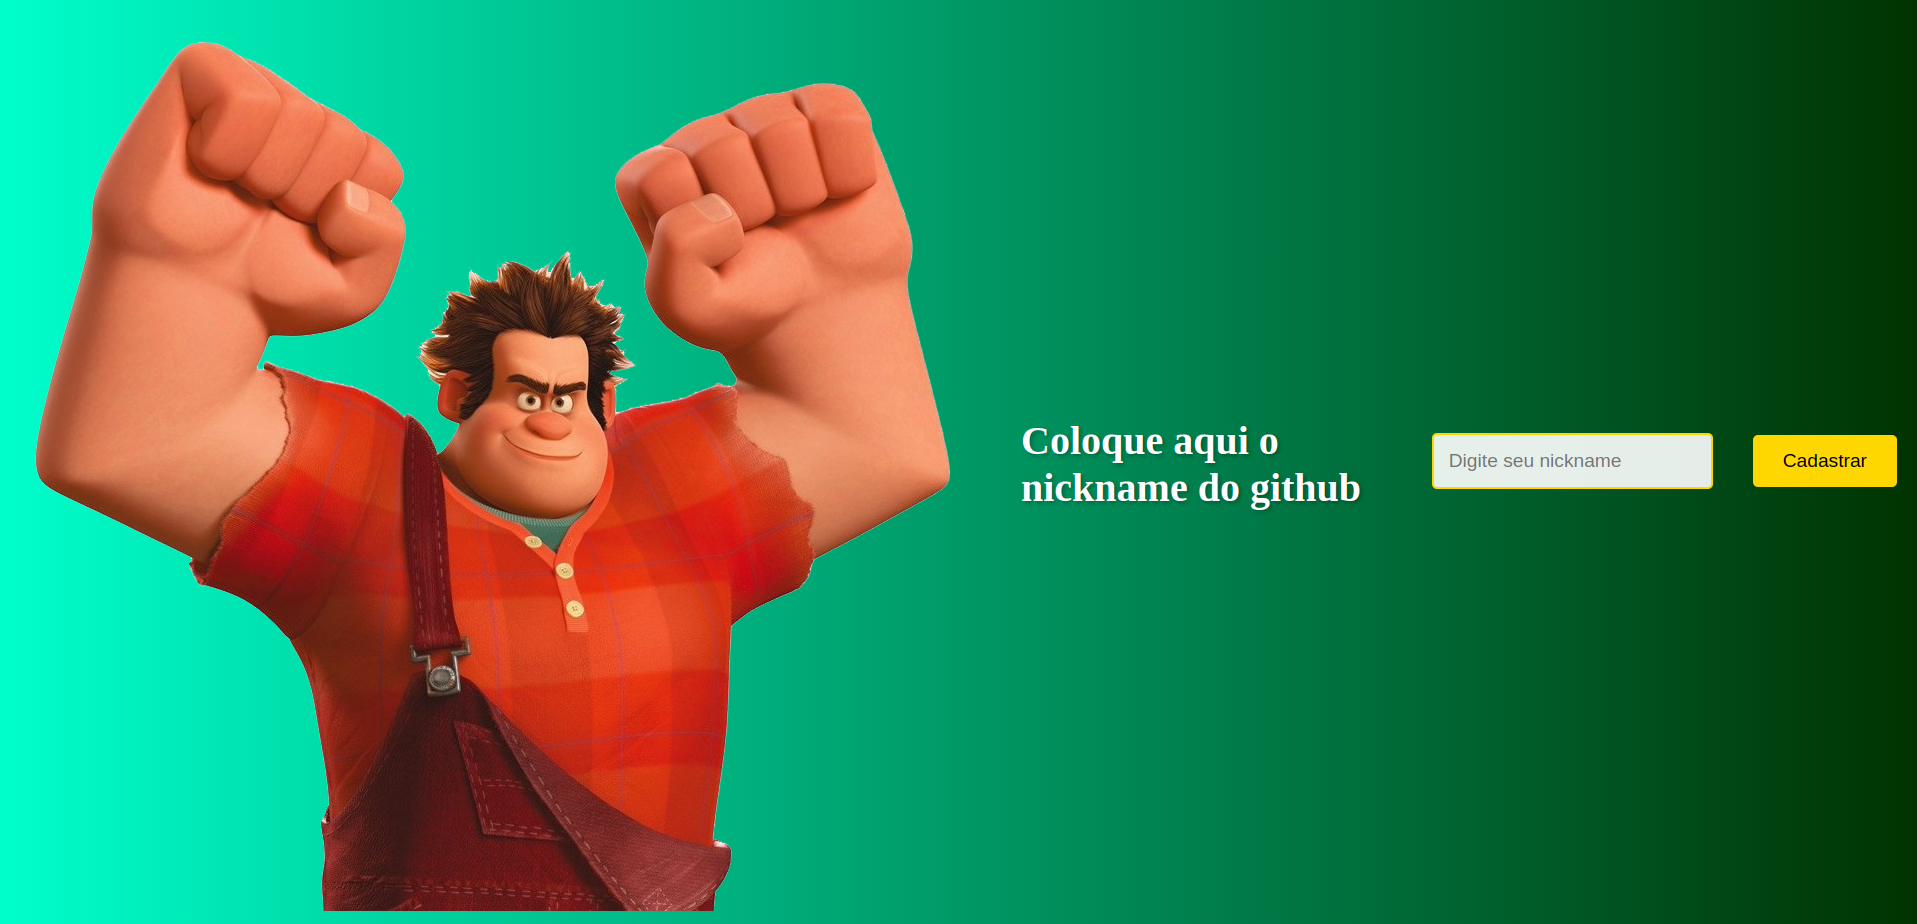
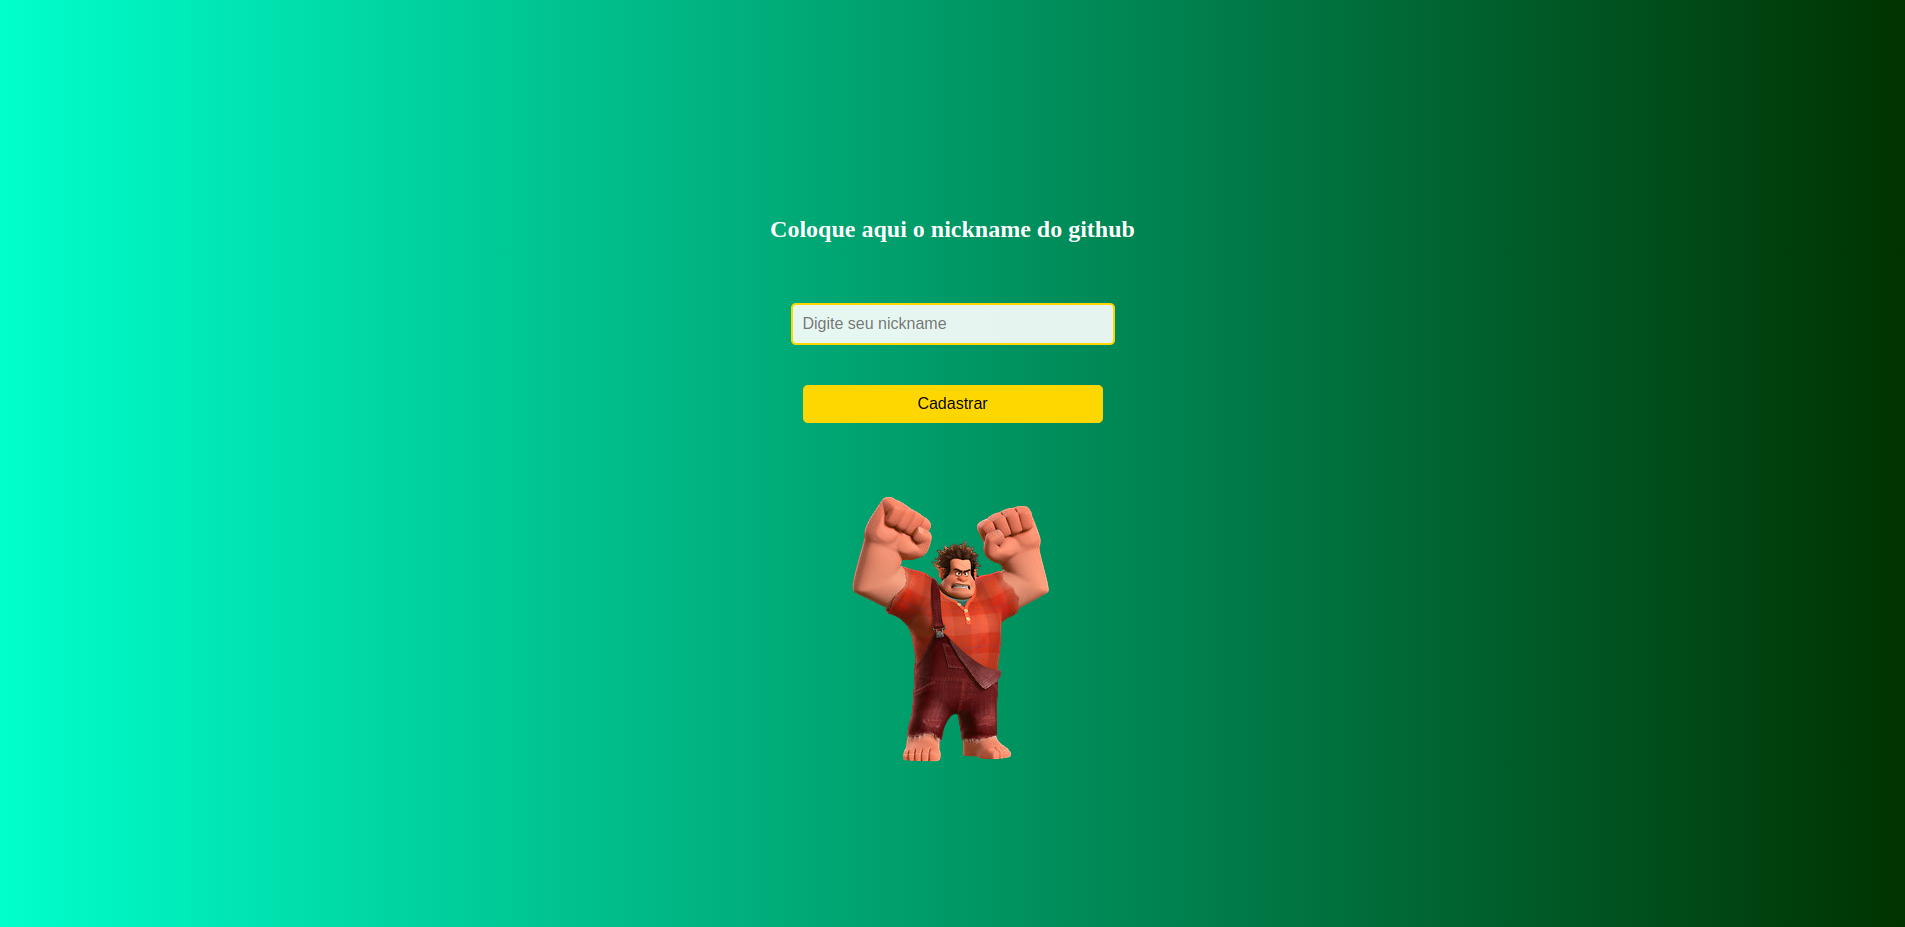
mexendo no codigo do ranking e no stylo e imagens

diff --git a/src/assets/js/engine.js b/src/assets/js/engine.js
@@ -43,7 +43,6 @@ document.addEventListener("DOMContentLoaded", () => {
 
     // Adiciona evento de clique para o botão de cadastro
     document.getElementById('cadastro-btn').addEventListener('click', function() {
-        // Lógica de validação ou processamento do cadastro pode ser adicionada aqui
         const nicknameInput = document.getElementById('nickname-input').value; // Supondo que você tenha um input para nickname
         if (nicknameInput) {
             localStorage.setItem("nickname", nicknameInput);
@@ -71,6 +70,12 @@ function playSound(audioName) {
     audio.play();
 }
 
+// Função para atualizar a pontuação e vidas no DOM
+function updateScoreAndLives() {
+    state.view.score.textContent = state.values.result; // Atualiza a pontuação
+    state.view.lives.textContent = `${state.values.currentLives}x`; // Atualiza as vidas
+}
+
 // Função para iniciar o jogo
 function init() {
     console.log("Iniciando o jogo..."); // Log para verificar a inicialização
@@ -80,9 +85,7 @@ function init() {
     state.values.currentLives = 3; // Reinicia as vidas
 
     // Atualiza a interface do usuário
-    state.view.score.textContent = state.values.result;
-    state.view.timeLeft.textContent = state.values.currentTime;
-    state.view.lives.textContent = state.values.currentLives;
+    updateScoreAndLives(); // Atualiza a pontuação e vidas
 
     // Inicia a música de fundo
     if (state.values.backgroundMusic) {
@@ -108,7 +111,7 @@ function endGame() {
     gameContainer.style.display = "none";
     gameOverScreen.style.display = "flex";
     document.getElementById("game-over-message").textContent = `Game Over! Pontuação: ${state.values.result}`;
-    
+
     // Toca a música de game over
     playSound("game-over-2");
 
@@ -147,9 +150,7 @@ function restartGame() {
 
     // Atualiza a interface do usuário
     console.log(`Vidas antes de reiniciar: ${state.values.currentLives}`); // Log para verificar o valor das vidas
-    state.view.score.textContent = state.values.result;
-    state.view.timeLeft.textContent = state.values.currentTime;
-    state.view.lives.textContent = state.values.currentLives;
+    updateScoreAndLives(); // Atualiza a pontuação e vidas
 
     // Esconde a tela de Game Over e mostra o container do jogo
     const gameOverScreen = document.getElementById("game-over-screen");
@@ -184,14 +185,13 @@ function handleSquareClick() {
 
     if (this.id === state.values.hitPosition) {
         state.values.result++;
-        state.view.score.textContent = state.values.result;
+        updateScoreAndLives(); // Atualiza a pontuação no DOM
         state.values.currentLives = Math.min(state.values.currentLives + 1, 3); // Adiciona vida se possível
-        state.view.lives.textContent = `${state.values.currentLives}x`;
         this.classList.remove("enemy");
         playSound("hit"); // Toca o som de acerto
     } else {
         state.values.currentLives--;
-        state.view.lives.textContent = `${state.values.currentLives}x`;
+        updateScoreAndLives(); // Atualiza as vidas no DOM
         playSound("miss"); // Toca o som de erro
     }
 }
@@ -216,5 +216,5 @@ function viewRanking() {
     rankings.forEach((entry, index) => {
         rankingMessage += `${index + 1}. ${entry.name}: ${entry.score}\n`;
     });
-    alert(rankingMessage); // Exibe o ranking em um alerta (ou pode ser em uma nova página/modal)
+    
 }

diff --git a/src/assets/css/styles.css b/src/assets/css/styles.css
@@ -72,13 +72,19 @@ body {
     border-bottom: 5px solid #ffd700;
 }
 
-.menu-time, .menu-score, .menu-lives {
+.menu-time, .menu-score {
     display: flex;
     flex-direction: column;
     align-items: center;
     gap: 2px;
     min-width: 100px; /* Ajuste conforme necessário */
 }
+
+.menu-lives {
+    display: flex;
+    align-items: center;
+}
+
 
 #time-left, #score, #lives {
     font-size: 2rem;
@@ -174,7 +180,7 @@ body {
 
 #cadastro-screen img {
     position: relative; /* Muda para 'relative' para se comportar em relação ao fluxo do documento */
-    width: 40   %; /* Reduz a largura da imagem para 80% da largura do container */
+    width: 40%; /* Reduz a largura da imagem para 80% da largura do container */
     height: auto; /* Ajusta a altura automaticamente */
     margin-top: 20px; /* Adiciona um espaço acima da imagem, se necessário */
     display: block; /* Garante que a imagem seja tratada como um bloco, evitando espaço abaixo */
@@ -311,4 +317,50 @@ th, td {
 th {
     background-color: #ffd700;
     color: black;
+}
+
+img {
+    max-width: 100%; /* A imagem não pode exceder a largura do seu contêiner */
+    height: auto; /* Mantém a proporção */
+}
+@media (max-width: 768px) {
+    #cadastro-screen {
+        padding: 20px; /* Ajuste o padding para telas menores */
+        font-size: 14px; /* Reduz o tamanho da fonte */
+    }
+    .ralph-image {
+        width: 100%; /* Faz a imagem se adaptar à largura da tela */
+        height: auto; /* Mantém a proporção da imagem */
+    }
+}
+
+#score, #lives {
+    display: block;
+    opacity: 1; /* Garante que estão visíveis */
+}
+
+/* CSS para a imagem de fundo */
+.start-image {
+    width: 100%; /* Ajusta a largura ao contêiner pai */
+    height: auto; /* Mantém a proporção */
+    display: block; /* Remove o espaço embaixo da imagem */
+}
+
+.start-container {
+    background-image: url('./src/assets/images/start.jpg');
+    background-size: cover; /* Cobre todo o contêiner */
+    background-position: center; /* Centraliza a imagem */
+    height: 100vh; /* Ajuste a altura conforme necessário */
+    width: 100%; /* Garante que o contêiner ocupe a largura total */
+}
+
+@media (max-width: 768px) {
+    .start-image {
+        width: 100%; /* Para telas menores */
+        height: auto; /* Mantém a proporção */
+    }
+
+    .start-container {
+        background-size: contain; /* Ajuste o tamanho da imagem de fundo */
+    }
 }

diff --git a/index.html b/index.html
@@ -14,12 +14,12 @@
     <link rel="stylesheet" href="./src/assets/css/reset.css">
     <link rel="stylesheet" href="./src/assets/css/styles.css">
     <link rel="icon" href="./src/assets/images/cursor.png" type="image/png">
-    <meta name="viewport" content="width=device-width, initial-scale=1.0">
 </head>
 <body>
     <!-- Tela de início -->
-    <div id="start-screen" style="display: none;">
-        <img src="./src/assets/images/start.jpg" alt="Iniciar Jogo">
+    <div class="start-container">
+        <div id="start-screen" style="display: none;">
+        <img src="./src/assets/images/start.jpg" class="start-image" alt="Início do Jogo">
         <button id="start-btn">Iniciar Jogo</button>
     </div>
 

diff --git a/ranking.html b/ranking.html
@@ -28,6 +28,9 @@
         console.log(rankings); // Para verificar os dados
         const rankingList = document.getElementById('ranking-list');
 
+        // Ordena os rankings do maior para o menor
+        rankings.sort((a, b) => b.score - a.score);
+
         if (rankings.length === 0) {
             const row = document.createElement('tr');
             row.innerHTML = `<td colspan="2">Nenhum ranking disponível</td>`;

diff --git a/cadastro.html b/cadastro.html
@@ -14,6 +14,6 @@
         <img src="./src/assets/images/ralph.png" alt="Ralph" class="ralph-image">
     </div>
 
-    <script src="src/assets/js/cadastro.js"></script>
+    <script defer src="src/assets/js/cadastro.js"></script>
 </body>
 </html>
